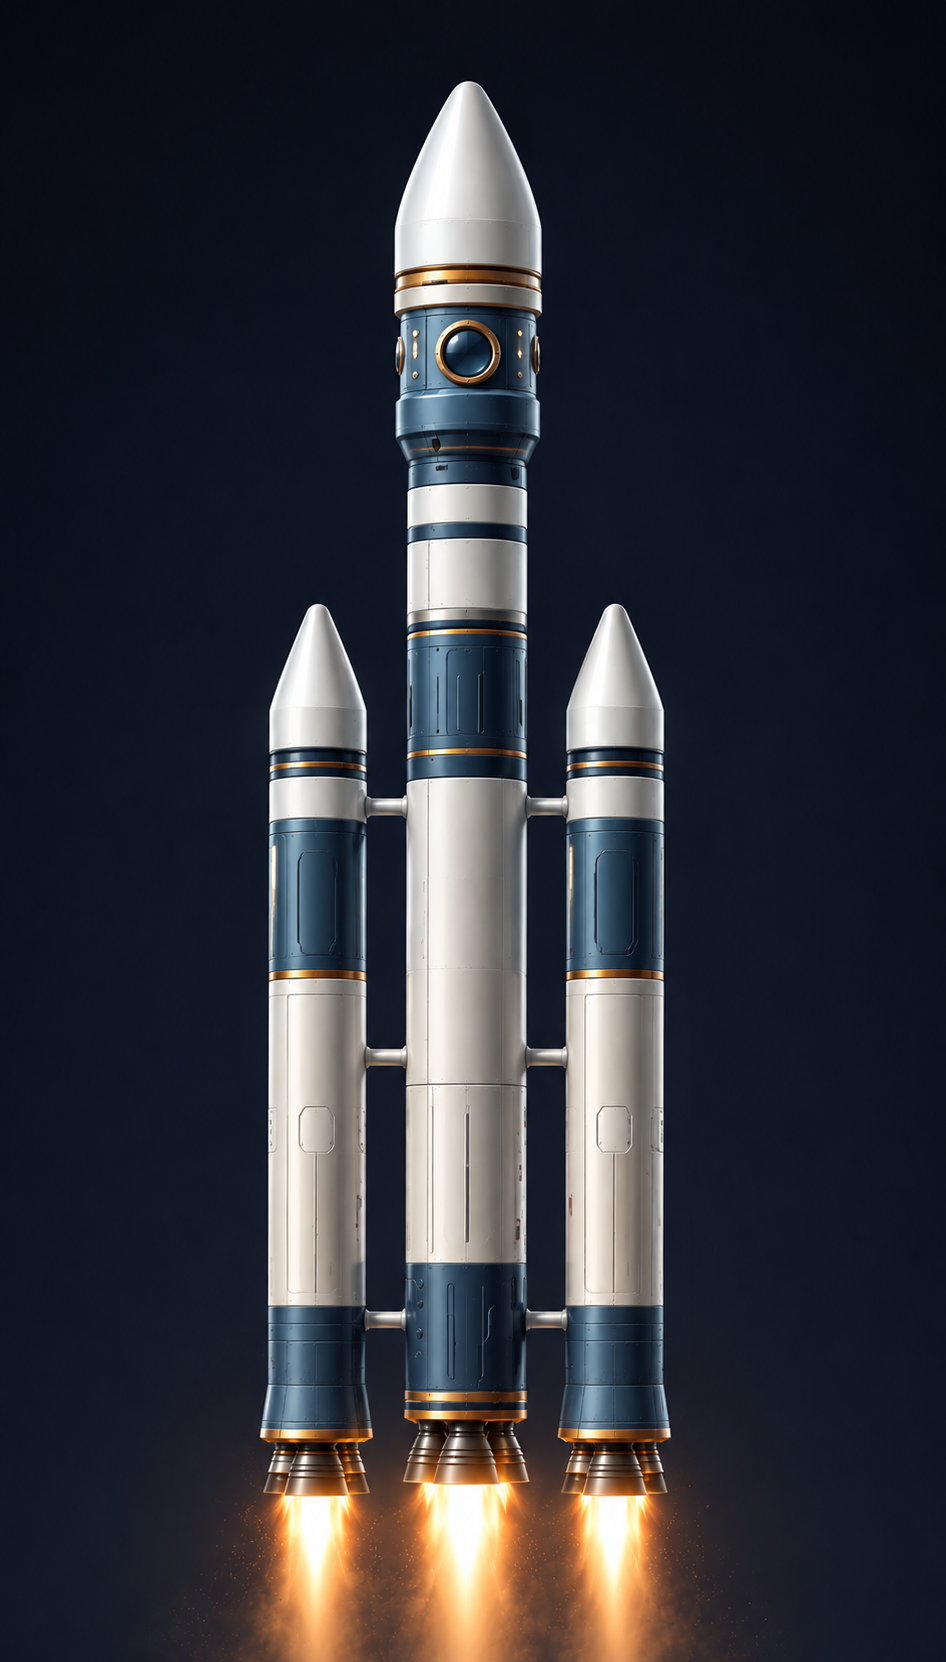
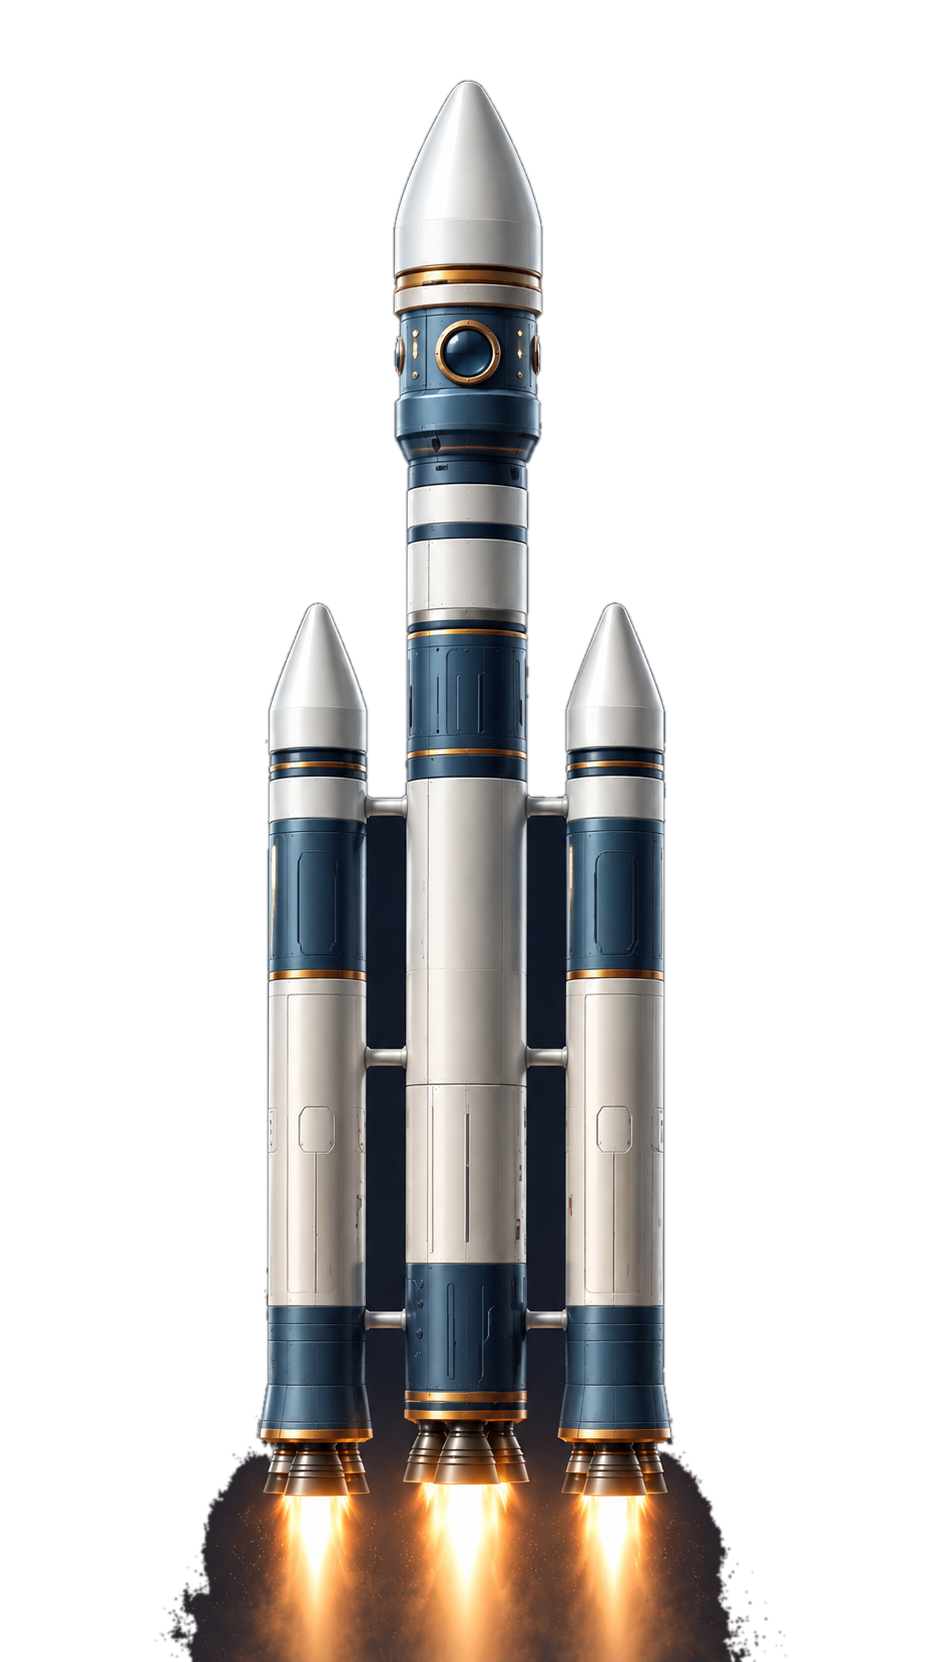
Mini space map : fond de Fusée3.png rendu transparent (glow suit les contours), fusée agrandie de 20%

diff --git a/style.css b/style.css
@@ -2018,8 +2018,8 @@ body {
     position: absolute;
     top: 50%;
     transform: translateY(-50%) translateX(-50%) rotate(90deg);
-    width: 16px;
-    height: 30px;
+    width: 19.2px;
+    height: 36px;
     z-index: 3;
 }
 .mini-space-map .spaceship .spaceship-img {
